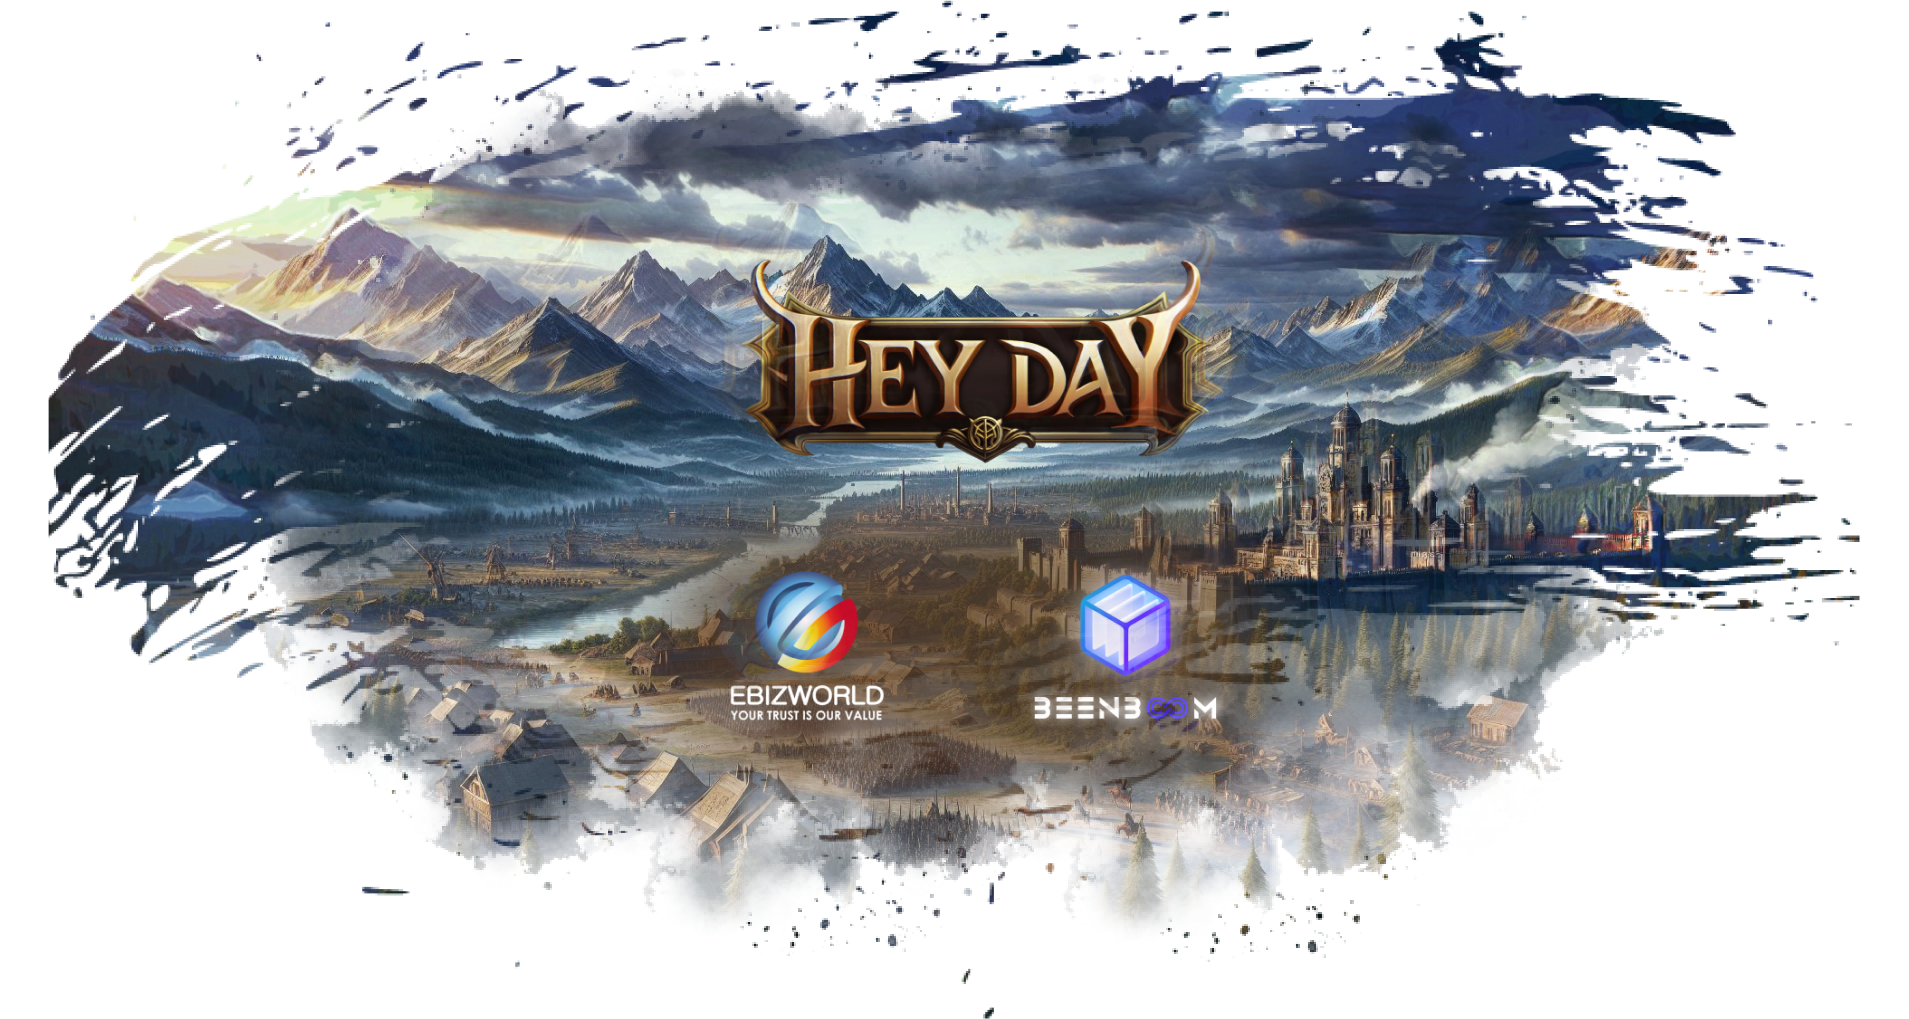
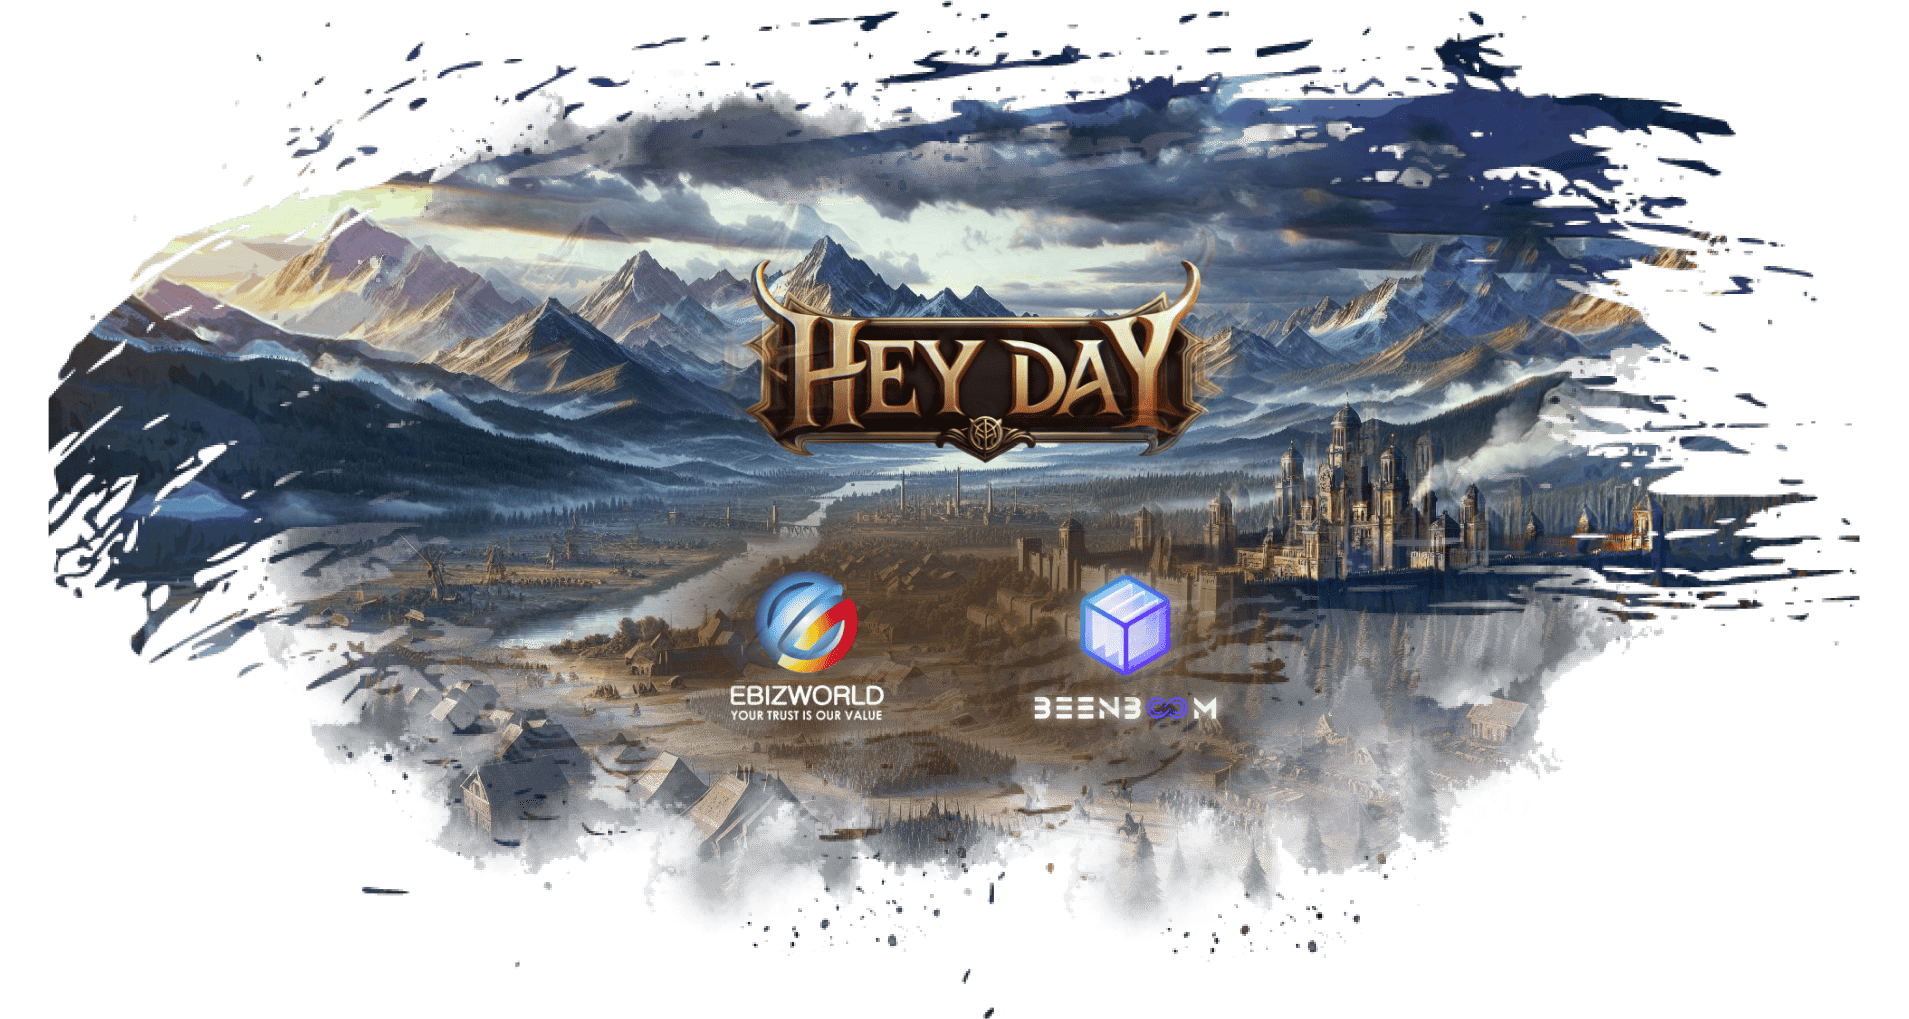
resize hinh

diff --git a/app/feature/AuctionHouse/AuctionHouse.tsx b/app/feature/AuctionHouse/AuctionHouse.tsx
@@ -6,11 +6,13 @@ export default function AuctionHouse() {
     <section id='auctionHouse' className='pt-40'>
       <div className='container-1640'>
         <div className='title'>
-          <h2 className='lineskin'>Auction House</h2>
+          <h2 className='lineskin' data-aos='fade-up'>
+            Auction House
+          </h2>
         </div>
         <div className='content flex items-center'>
-          <p>{auctionHouse.phaseGraph}</p>
-          <div className='highlight-wrapper relative p-5'>
+          <p data-aos='fade-right'>{auctionHouse.phaseGraph}</p>
+          <div className='highlight-wrapper relative p-5' data-aos='fade-left'>
             <Image
               src='/2312/highlight_wrapper.png'
               alt='highlight-wrapper'
@@ -28,7 +30,10 @@ export default function AuctionHouse() {
           </div>
         </div>
       </div>
-      <div className='image-main ml-auto mr-auto max-w-[1920px]'>
+      <div
+        className='image-main ml-auto mr-auto max-w-[1920px]'
+        data-aos='fade-up'
+      >
         <Image
           src='/2312/auction-house.png'
           alt='auction-house'

diff --git a/app/feature/MysticalStone/MysticalStone.tsx b/app/feature/MysticalStone/MysticalStone.tsx
@@ -6,11 +6,13 @@ export default function MysticalStone() {
     <section id='mysticalStone' className='pt-40'>
       <div className='container-1640'>
         <div className='title'>
-          <h2 className='lineskin'>Mystical Stone</h2>
+          <h2 className='lineskin' data-aos='fade-up'>
+            Mystical Stone
+          </h2>
         </div>
         <div className='content relative z-10 flex items-center'>
-          <p>{masticalStone.phaseGraph}</p>
-          <div className='highlight-wrapper relative p-5'>
+          <p data-aos='fade-right'>{masticalStone.phaseGraph}</p>
+          <div className='highlight-wrapper relative p-5' data-aos='fade-left'>
             <Image
               src='/2312/highlight_wrapper.png'
               alt='highlight-wrapper'
@@ -27,7 +29,7 @@ export default function MysticalStone() {
             </ul>
           </div>
         </div>
-        <div className='relative'>
+        <div className='relative' data-aos='fade-up'>
           <Image
             width={1920}
             height={500}

diff --git a/app/feature/NewsUpdate/NewsUpdate.tsx b/app/feature/NewsUpdate/NewsUpdate.tsx
@@ -11,8 +11,10 @@ export default function NewsUpdate() {
     <section id='community' className='pt-40'>
       <div className='container-1640 z-10'>
         {/* Main News */}
-        <h2 className='lineskin title-mobile'>news & updates</h2>
-        <div className='main-news mb-12'>
+        <h2 className='lineskin title-mobile' data-aos='fade-up'>
+          news & updates
+        </h2>
+        <div className='main-news mb-12' data-aos='fade-up'>
           <div className='leftSide'>
             <h2 className='lineskin'>news & updates</h2>
             <div className='main-news-item'>
@@ -44,7 +46,7 @@ export default function NewsUpdate() {
             <Image src={IMG.src} alt='' width={954.05} height={508} />
           </div>
         </div>
-        <div className='wrraper-slider'>
+        <div className='wrraper-slider' data-aos='fade-up'>
           {/* Slider */}
           <ReactSwiperNewUpdates />
         </div>

diff --git a/app/feature/GameFi/GameFiM.tsx b/app/feature/GameFi/GameFiM.tsx
@@ -35,7 +35,7 @@ export default function GameFiM() {
   return (
     <section id='gameFiM' className='pt-11'>
       <div className='container-1640 relative z-10 pt-28'>
-        <div className='relative'>
+        <div className='relative' data-aos='fade-up'>
           <div className='group-content relative z-10 w-1/2'>
             <h2 className='lineskin'>gamefi mechanism</h2>
             <h3 className='titleFont mt-4 font-light text-white lg:mt-5'>
@@ -80,6 +80,7 @@ export default function GameFiM() {
           {gamefiMe.stories.map((el, id) => {
             return (
               <SwiperSlide
+                data-aos='fade-up'
                 className='gamefiMe-item cursor-pointer'
                 key={id}
                 onClick={() =>

diff --git a/app/feature/GamePlay/Gameplay.tsx b/app/feature/GamePlay/Gameplay.tsx
@@ -8,6 +8,7 @@ export default function Gameplay() {
     <section
       id='gameplay'
       className='relative flex items-center pt-40 duration-300'
+      data-aos='fade-up'
     >
       <div className='container-1640'>
         <div className='title'>
